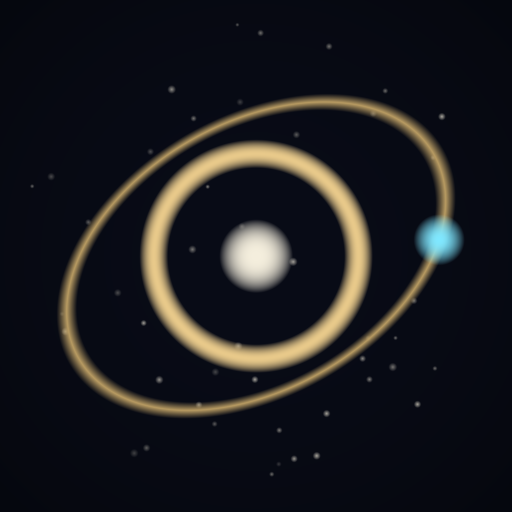
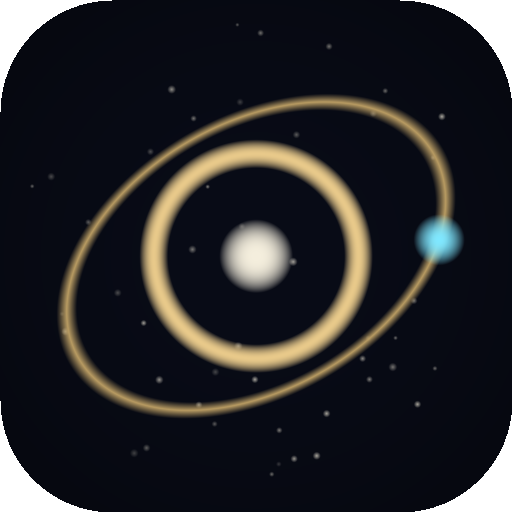
feat(mobile): 美化logo

diff --git a/src/renderer/src/styles/global.css b/src/renderer/src/styles/global.css
@@ -1347,23 +1347,40 @@ textarea,
   border: none;
 }
 
+/* 品牌标：金色圆角方块 + 内圈描边，保留完整圆角而不是裁切成多边形。 */
 .logo-mark {
+  position: relative;
   width: 50px;
   height: 50px;
   margin-bottom: 12px;
   align-self: flex-start;
   display: grid;
   place-items: center;
-  border-radius: 14px;
+  overflow: hidden;
+  border: 1px solid rgba(255, 255, 255, 0.26);
+  border-radius: 17px;
   font-family: var(--serif);
   font-size: 23px;
   font-weight: 700;
   color: #1a1408;
-  background: linear-gradient(135deg, #f5dfa8, #d3ab5e 60%, #a87f3a);
+  background:
+    radial-gradient(circle at 30% 18%, rgba(255, 255, 255, 0.72), transparent 46%),
+    linear-gradient(135deg, #f7e5b8, #d8b267 58%, #a87f3a);
   box-shadow:
-    0 0 18px rgba(var(--accent-rgb), 0.4),
-    inset 0 1px 0 rgba(255, 255, 255, 0.5);
-  clip-path: polygon(12% 0, 100% 0, 100% 76%, 76% 100%, 0 100%, 0 12%);
+    0 8px 18px rgba(0, 0, 0, 0.26),
+    0 0 18px rgba(var(--accent-rgb), 0.32),
+    inset 0 1px 0 rgba(255, 255, 255, 0.62),
+    inset 0 -1px 0 rgba(0, 0, 0, 0.18);
+  text-shadow: 0 1px 0 rgba(255, 255, 255, 0.28);
+}
+
+.logo-mark::after {
+  content: '';
+  position: absolute;
+  inset: 3px;
+  border: 1px solid rgba(255, 255, 255, 0.2);
+  border-radius: 14px;
+  pointer-events: none;
 }
 
 /* 折叠 / 展开按钮 */
